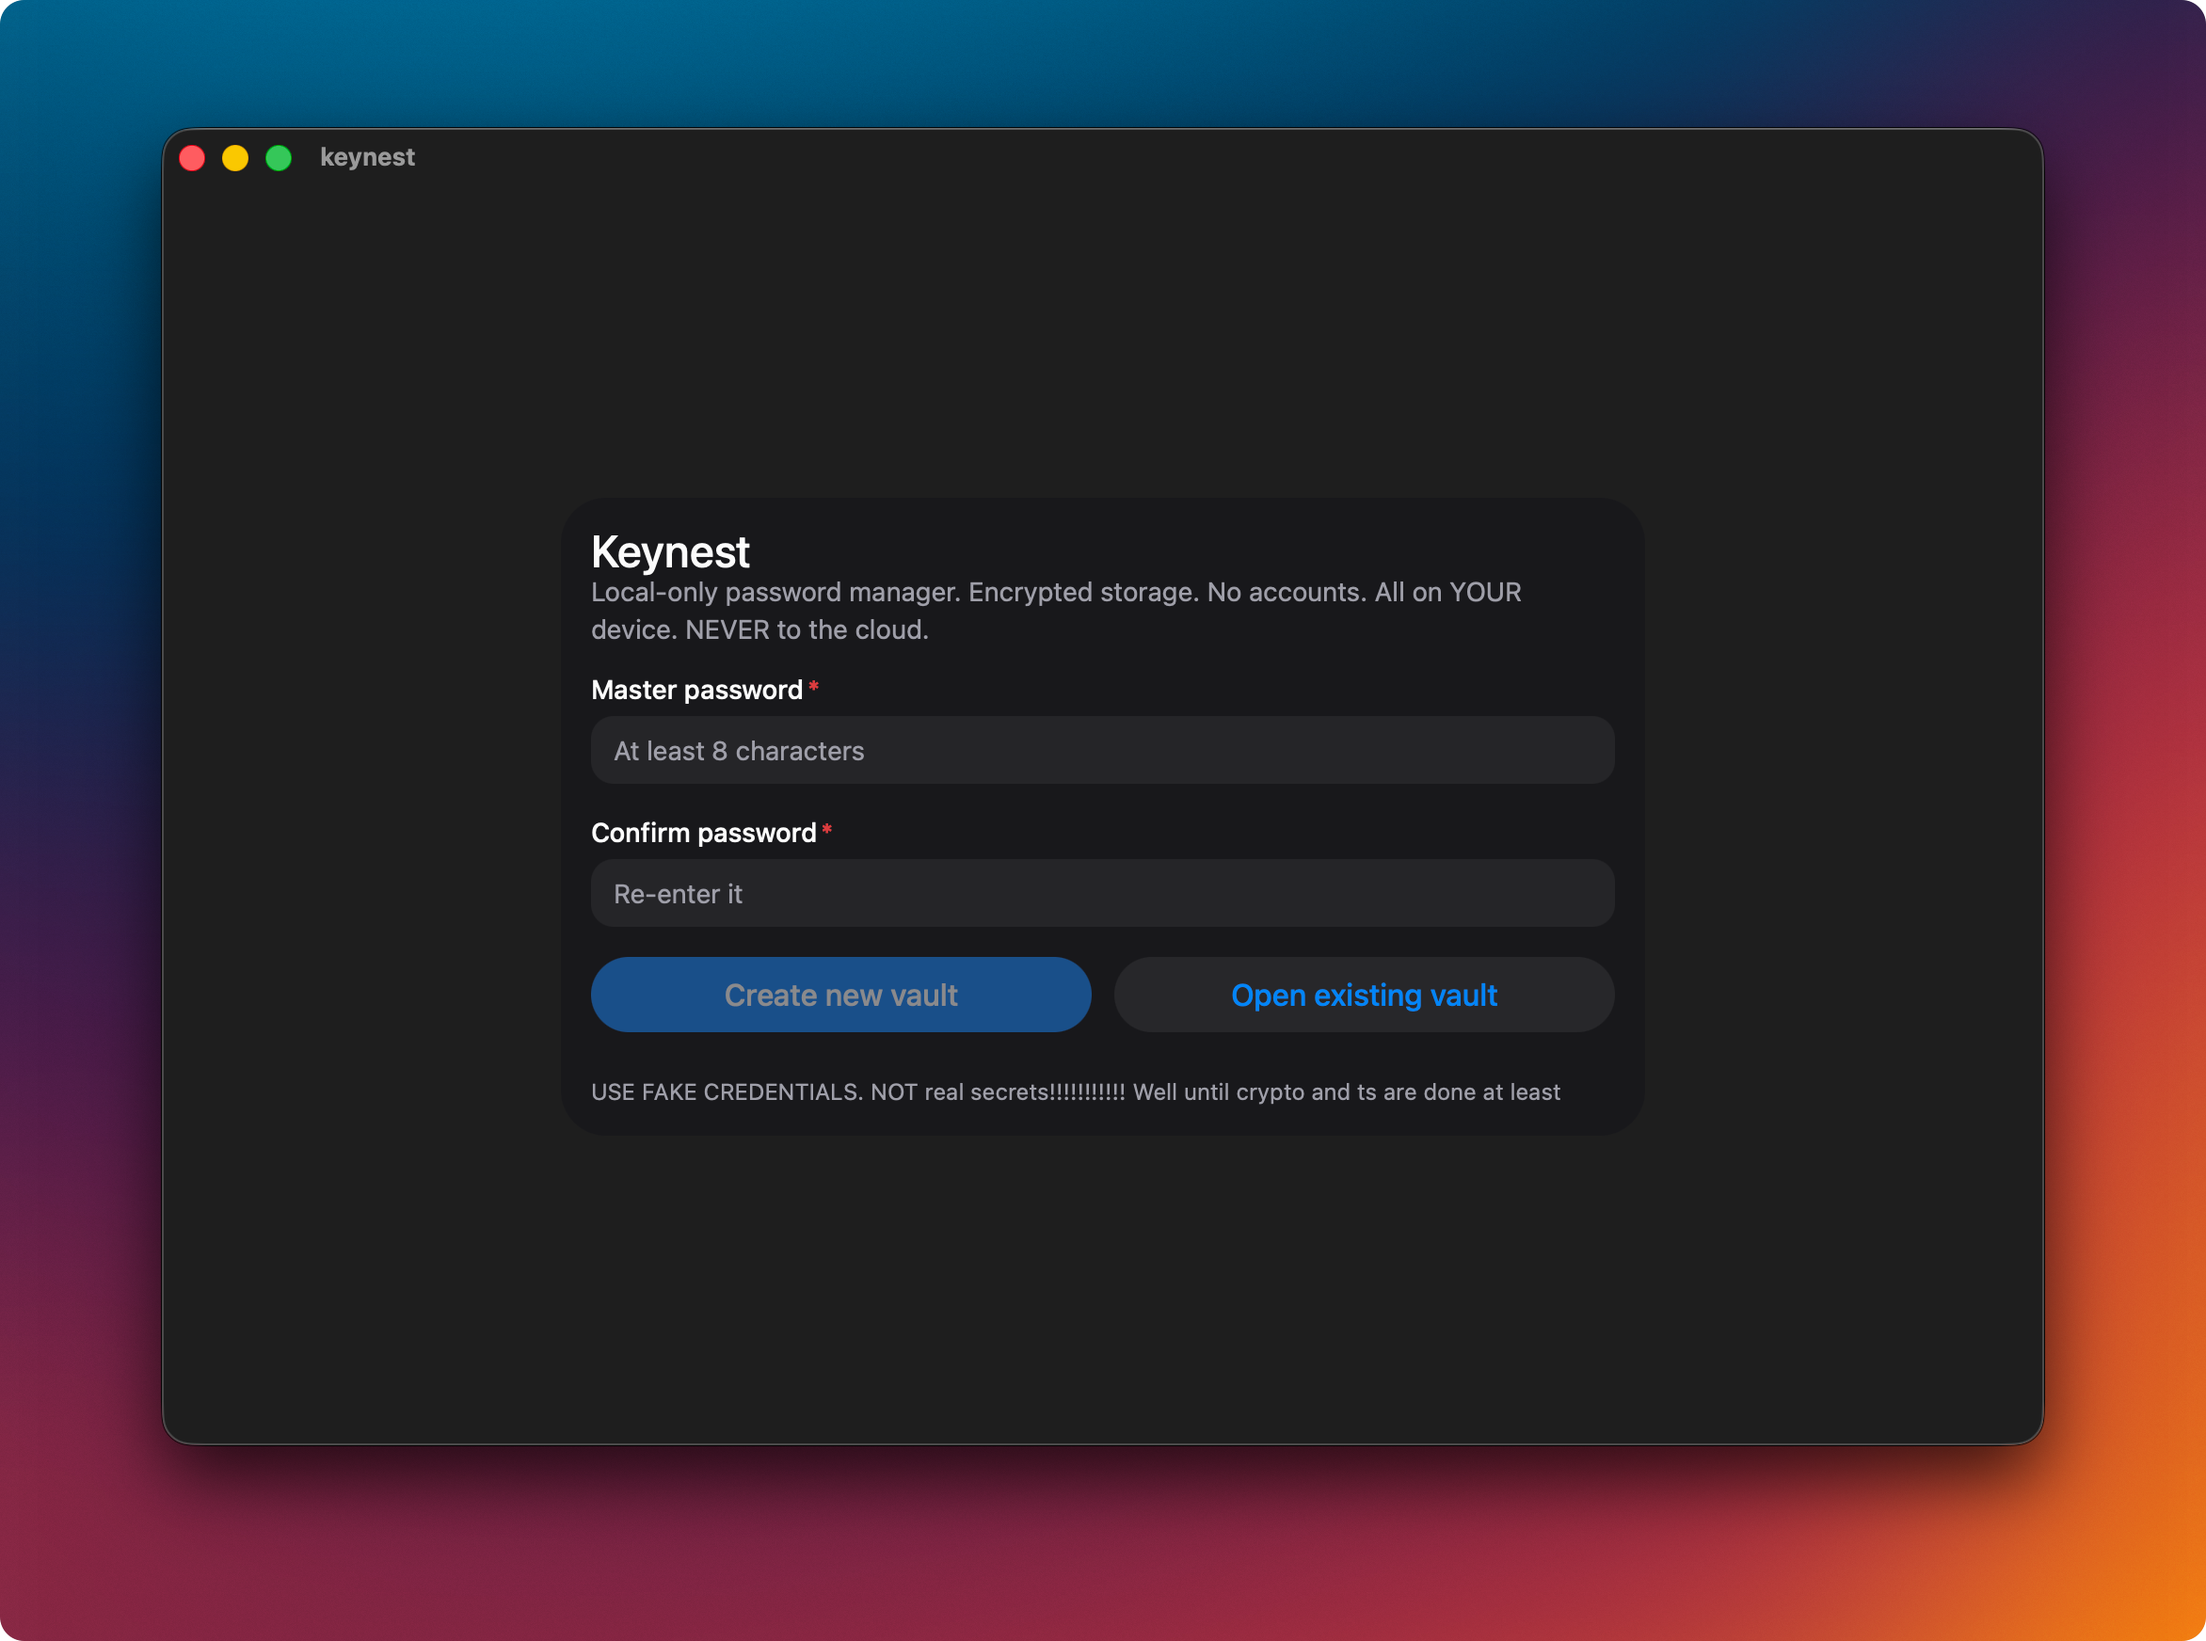
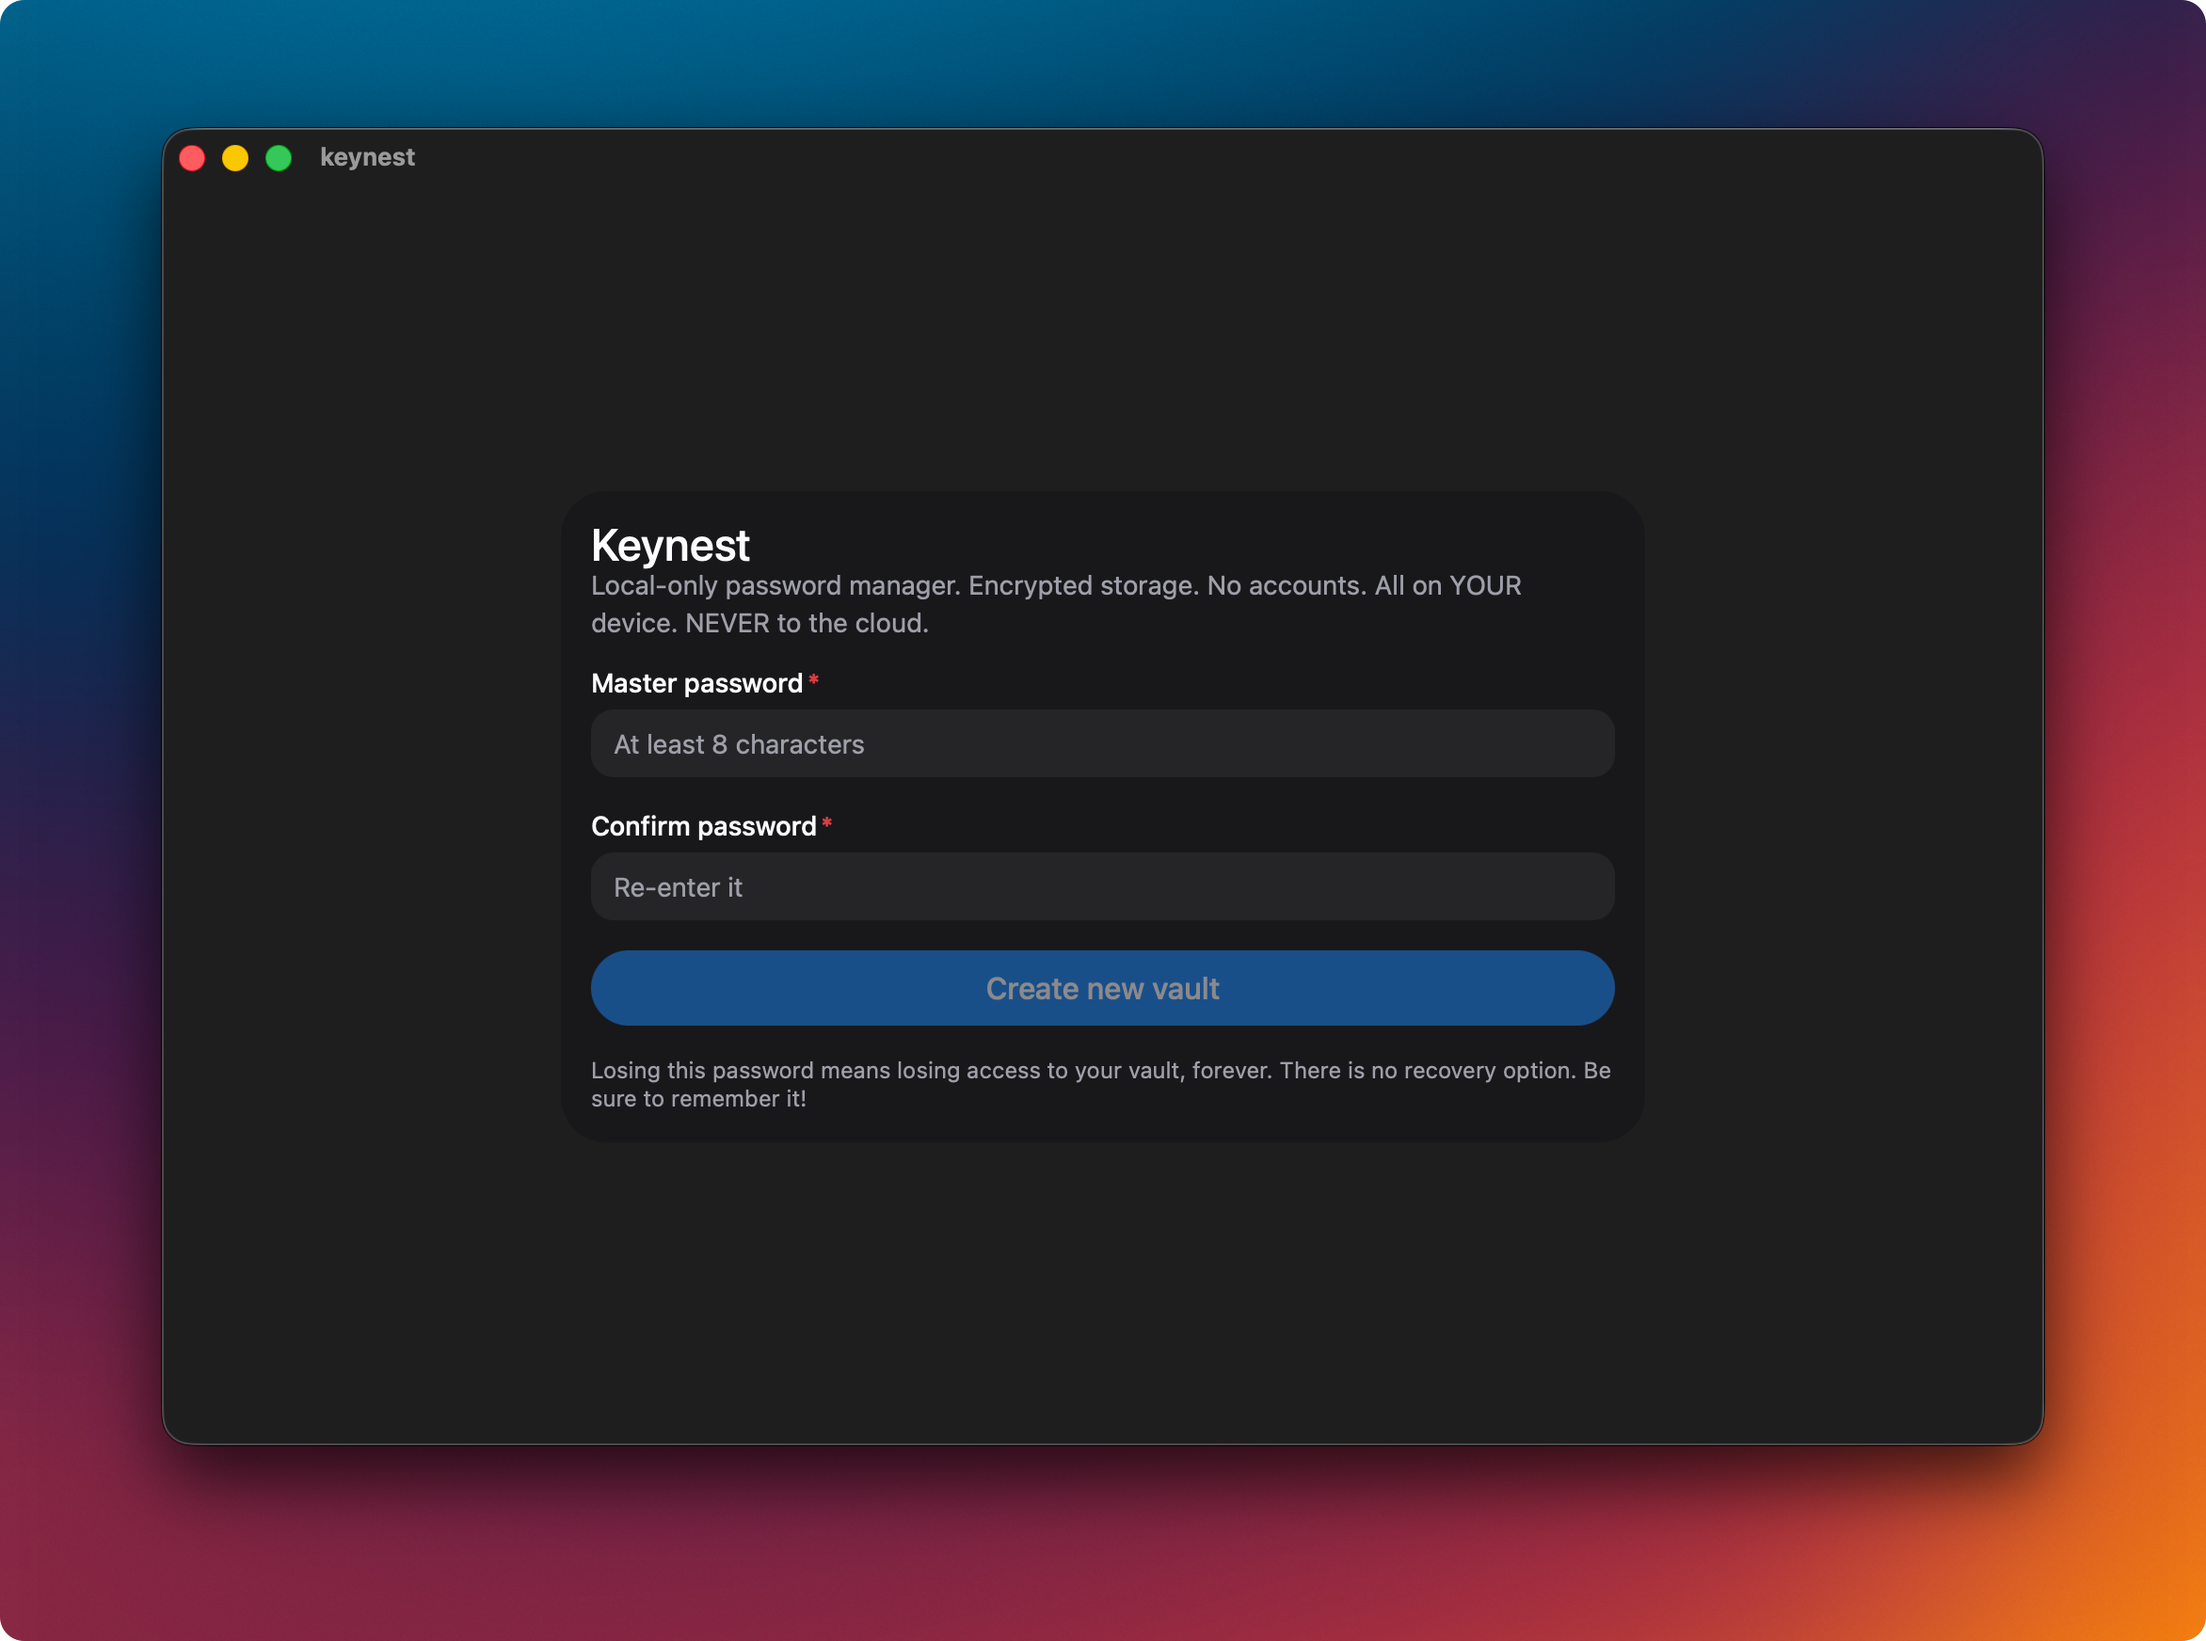
feat: hide un-implemented features, fix warning text, bump ver

Changed region(s): [[0.2491, 0.4954, 0.7474, 0.6812], [0.2491, 0.3096, 0.6852, 0.4644]]

diff --git a/src/pages/Welcome.tsx b/src/pages/Welcome.tsx
@@ -11,6 +11,7 @@ import {
 export default function Welcome({
   appName,
   onCreate,
+  // @ts-ignore
   onOpen,
   error,
 }: {
@@ -107,7 +108,7 @@ export default function Welcome({
             </Button>
 
             {/* TODO: implement this */}
-            <Button
+            {/* <Button
               fullWidth
               size="lg"
               variant="secondary"
@@ -115,12 +116,12 @@ export default function Welcome({
               isDisabled={isPending}
             >
               Open existing vault
-            </Button>
+            </Button> */}
           </div>
 
-          <p className="pt-2 text-xs text-muted">
-            USE FAKE CREDENTIALS. NOT real secrets!!!!!!!!!!! Well until crypto
-            and ts are done at least
+          <p className="text-xs text-muted">
+            Losing this password means losing access to your vault, forever.
+            There is no recovery option. Be sure to remember it!
           </p>
         </Card.Content>
       </Card>

diff --git a/src/pages/Unlock.tsx b/src/pages/Unlock.tsx
@@ -10,6 +10,7 @@ import {
 
 export default function Unlock({
   appName,
+  // @ts-ignore
   onBack,
   onUnlock,
   error,
@@ -64,9 +65,10 @@ export default function Unlock({
           </TextField>
 
           <div className="flex gap-3">
-            <Button variant="tertiary" onPress={onBack} isDisabled={isPending}>
+            {/* TODO: implement multi-vault access */}
+            {/* <Button variant="tertiary" onPress={onBack} isDisabled={isPending}>
               Back
-            </Button>
+            </Button> */}
             <Button
               onPress={handleUnlock}
               isDisabled={!canUnlock}
